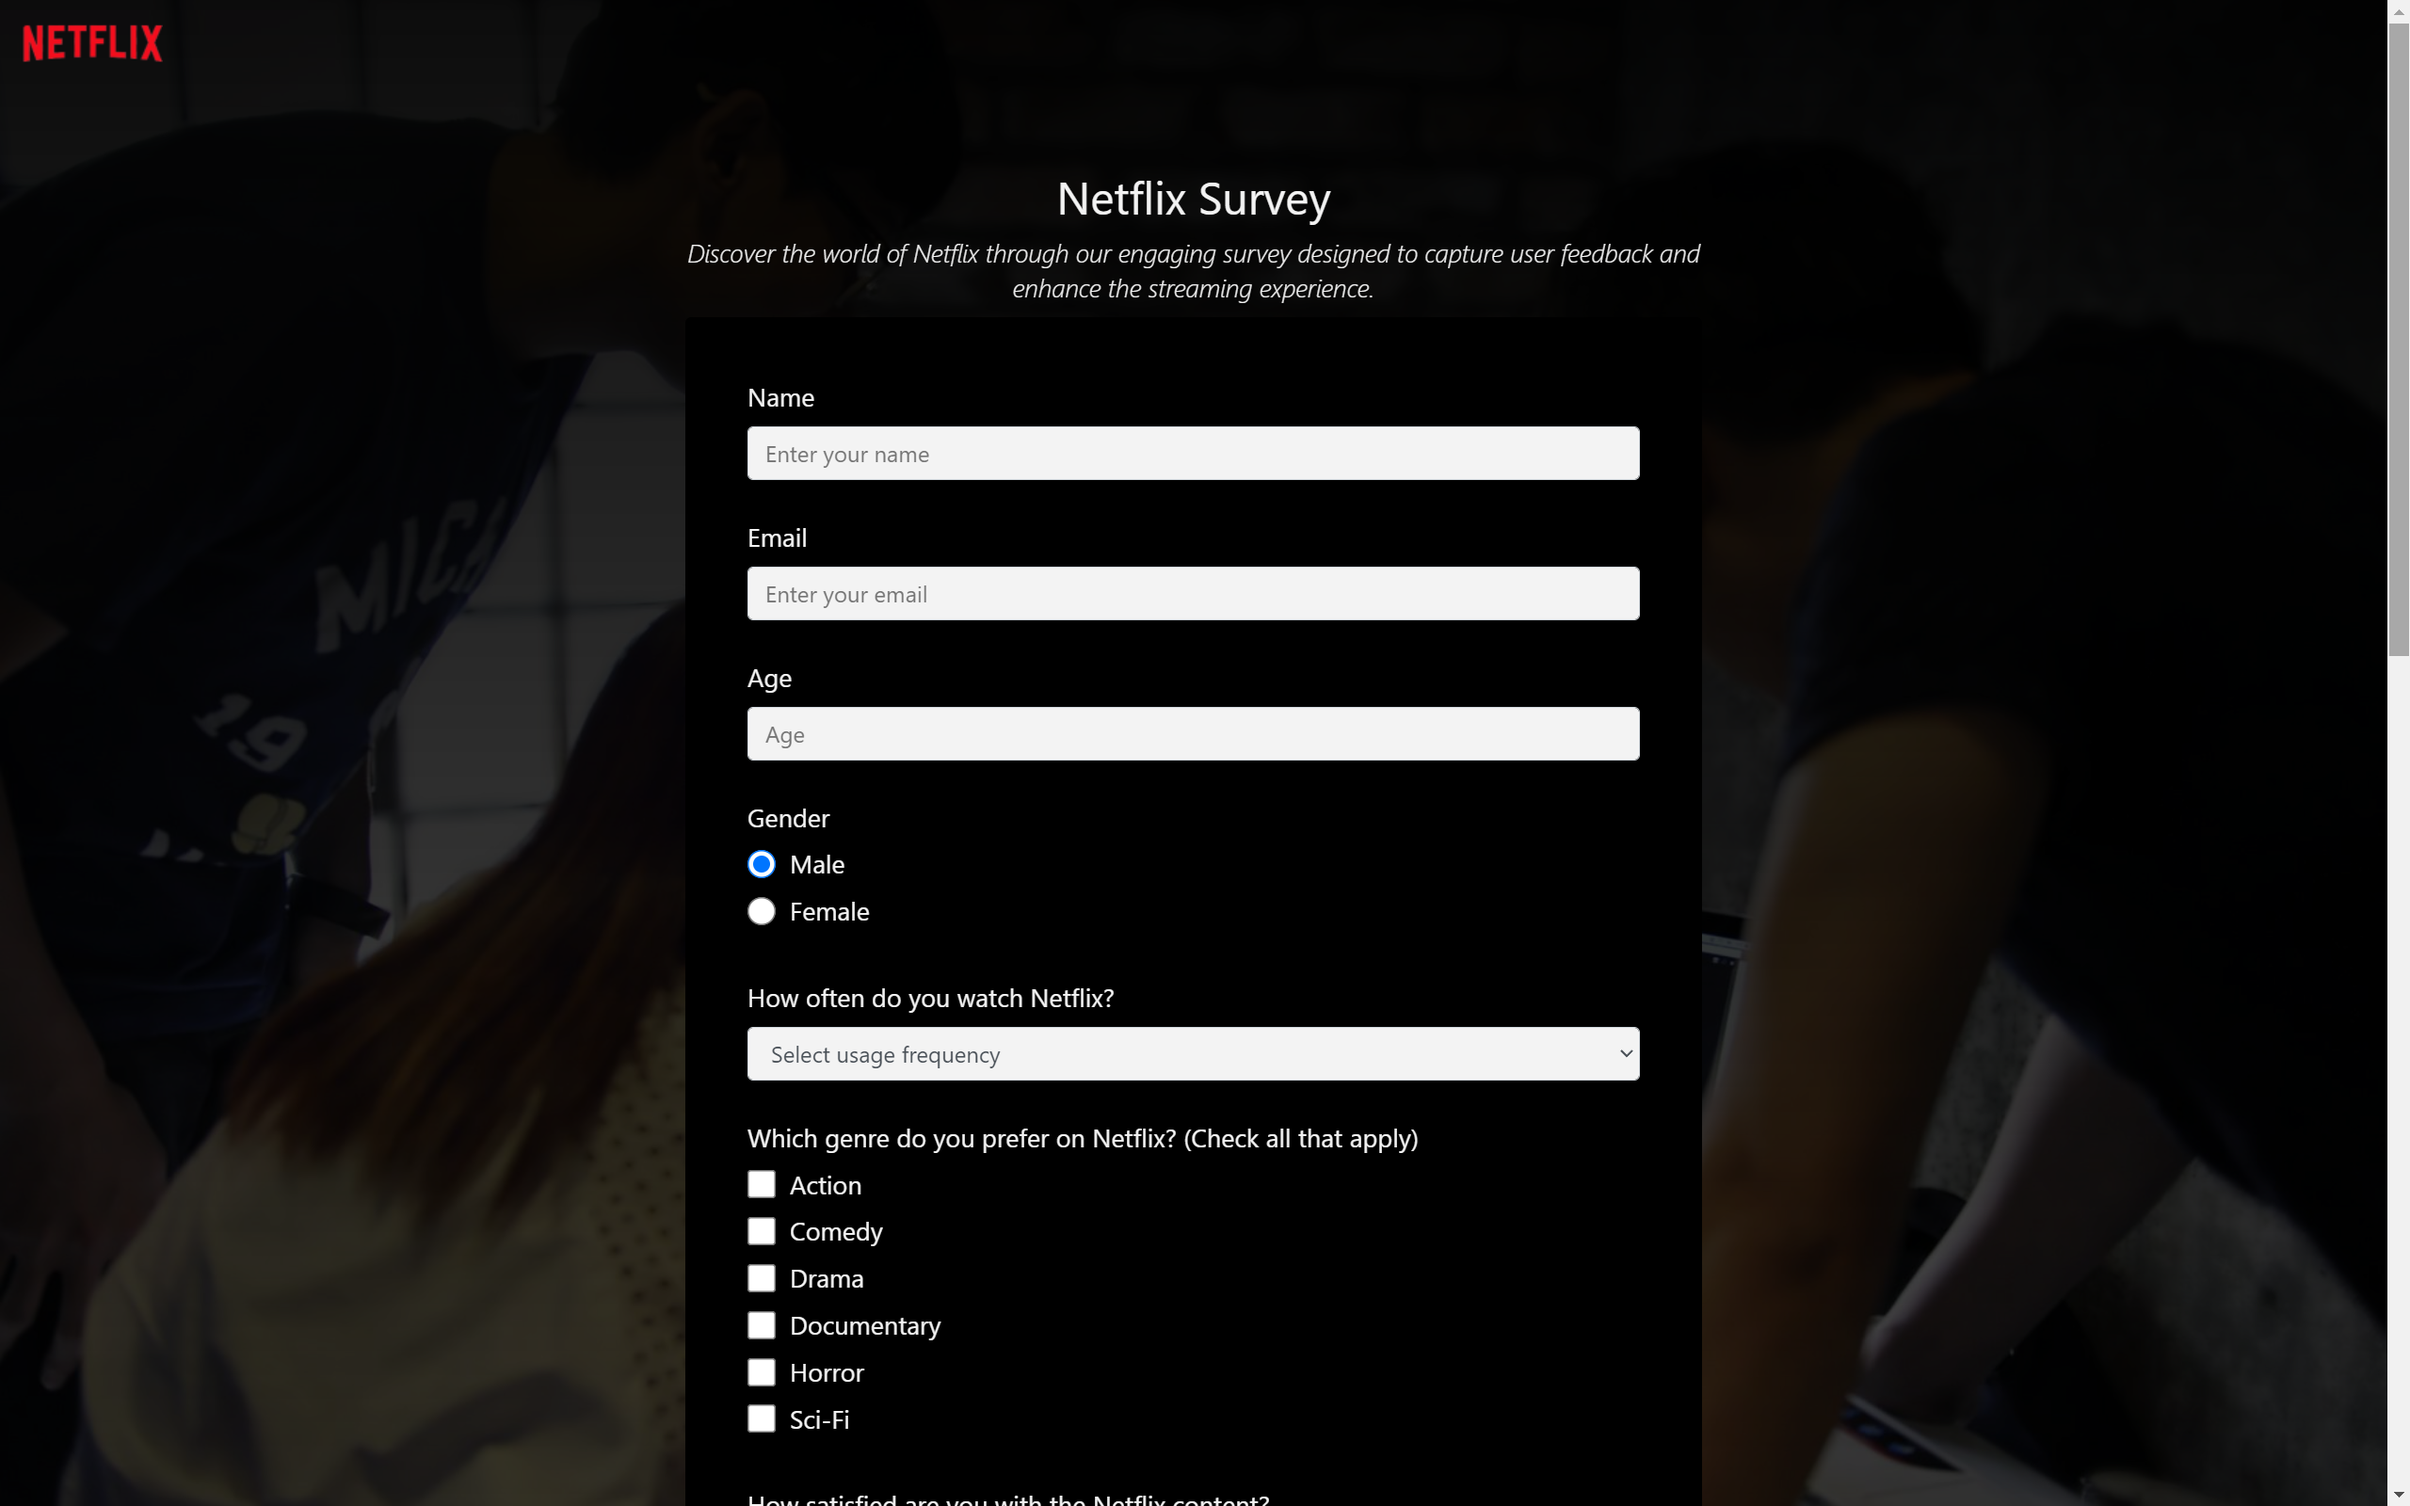
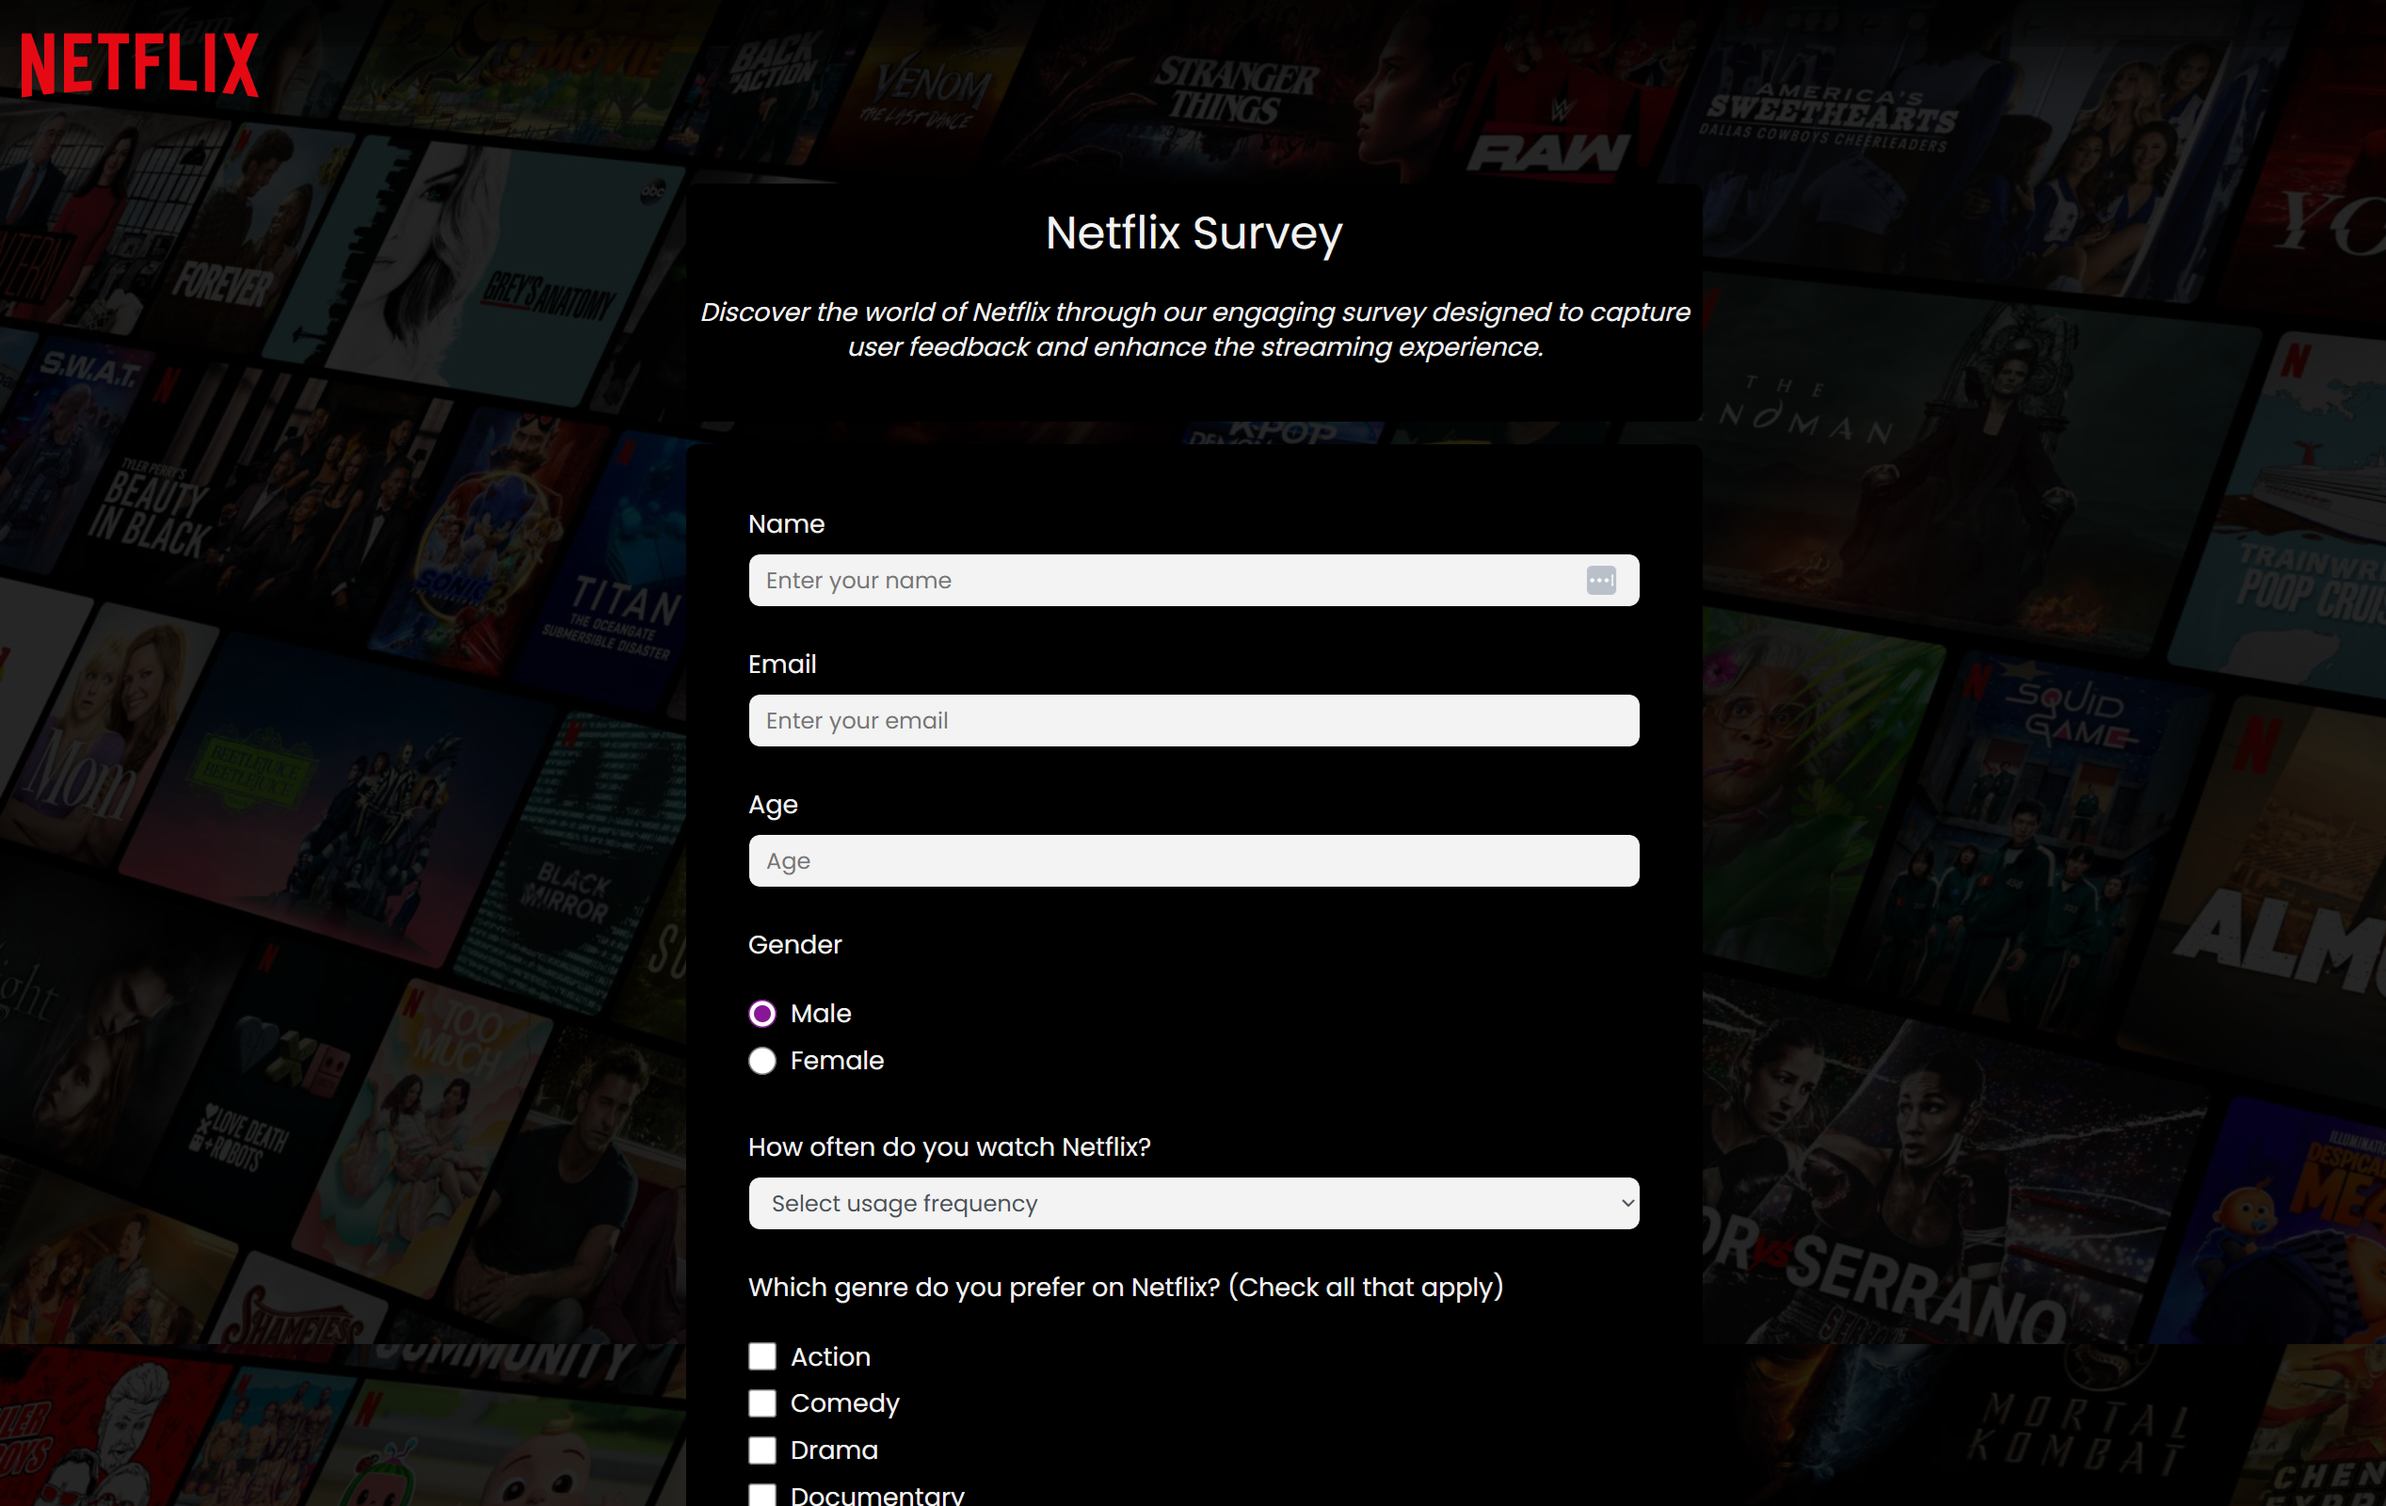
Updates

diff --git a/index.html b/index.html
@@ -55,7 +55,7 @@
       </header>
       <main class="container">
         <div class="hero-container">
-          <h1 id="title" class="text-center">FCC: Survey Form</h1>
+          <h1 id="title" class="text-center">Netflix Survey</h1>
           <p id="description" class="description text-center">Discover the world of Netflix through our engaging survey designed to capture user feedback and enhance the streaming experience.</p>
         </div>
         <form id="survey-form">
